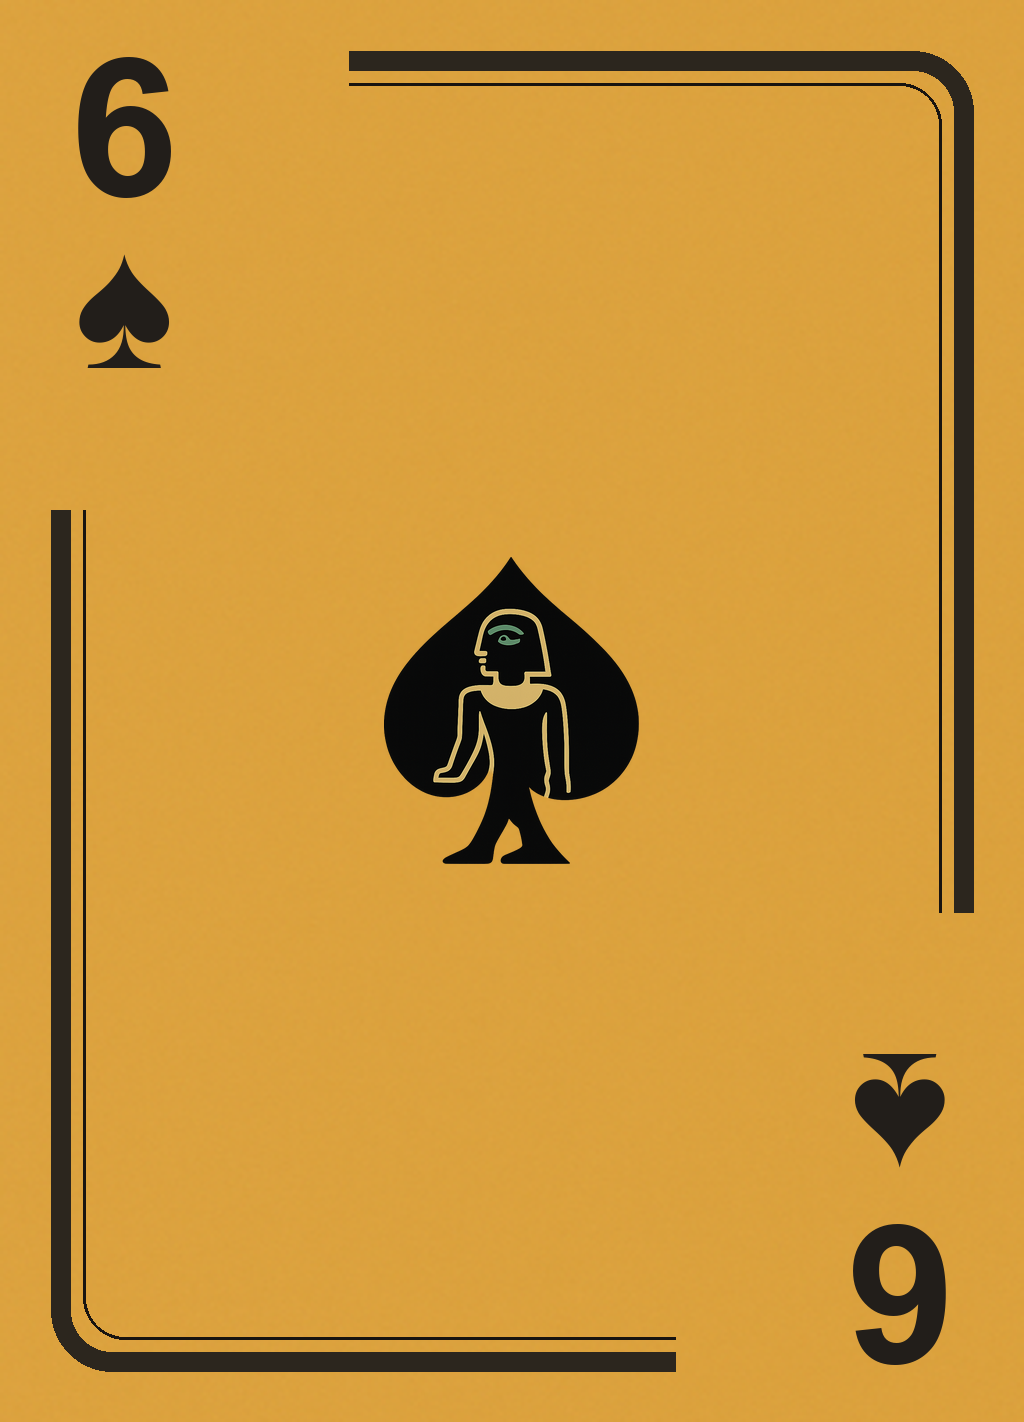
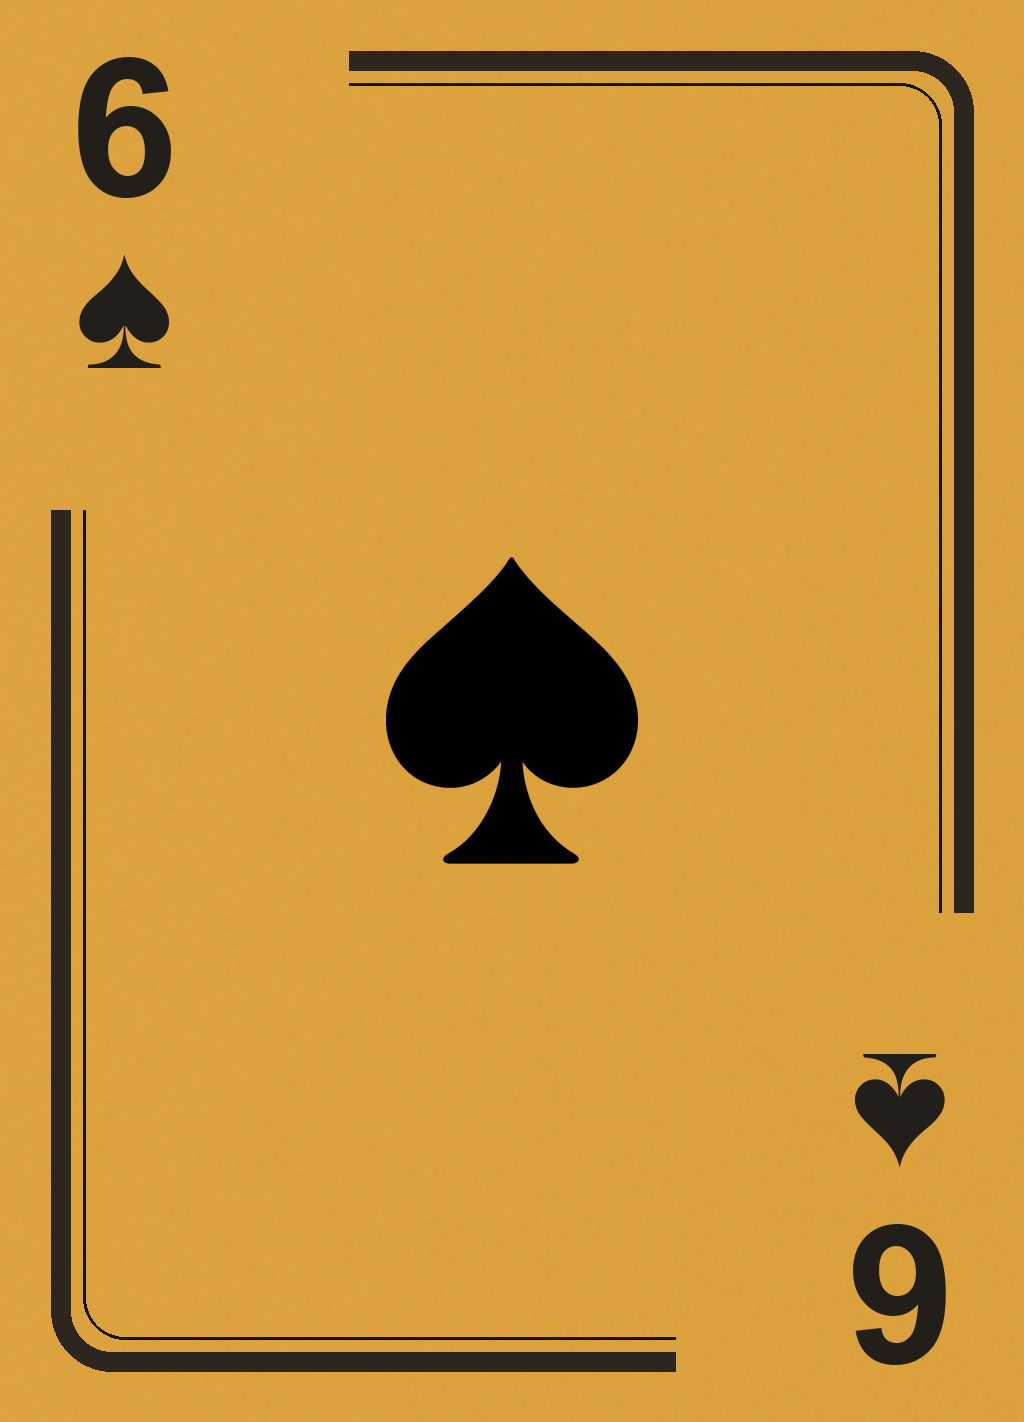
Flutter: add gyotaku card deck + recompress egyptian/greek art
- New gyotaku card-face deck and matching card back.
- Recompress the egyptian/greek backs and egyptian spade faces to shrink asset
  size; regen tooling updates (gen_components/composite).
- Store/appearance wiring for the new deck.

Changed region(s): [[0.375, 0.4023, 0.625, 0.6188]]

diff --git a/app_flutter/lib/state/store_provider.dart b/app_flutter/lib/state/store_provider.dart
@@ -169,6 +169,12 @@ const List<StoreProduct> storeProducts = [
       cosmeticId: 'back-egyptian',
       name: 'Egyptian',
       priceLabel: _cosmeticPrice),
+  StoreProduct(
+      id: 'back_gyotaku',
+      kind: CosmeticKind.cardBack,
+      cosmeticId: 'back-gyotaku',
+      name: 'Gyotaku',
+      priceLabel: _cosmeticPrice),
   // Chip styles.
   StoreProduct(
       id: 'chips_monochrome',
@@ -207,6 +213,12 @@ const List<StoreProduct> storeProducts = [
       cosmeticId: 'deck-egyptian',
       name: 'Egyptian',
       priceLabel: _deckPrice),
+  StoreProduct(
+      id: 'deck_gyotaku',
+      kind: CosmeticKind.deck,
+      cosmeticId: 'deck-gyotaku',
+      name: 'Gyotaku',
+      priceLabel: _deckPrice),
   // Theme sets — a premium deck paired with its matching card back, discounted
   // against buying both separately. Owning a bundle unlocks each granted product.
   StoreProduct(
@@ -237,6 +249,13 @@ const List<StoreProduct> storeProducts = [
       name: 'Egyptian Set',
       priceLabel: _bundlePrice,
       grants: ['deck_egyptian', 'back_egyptian']),
+  StoreProduct(
+      id: 'bundle_gyotaku',
+      kind: CosmeticKind.bundle,
+      cosmeticId: 'deck-gyotaku',
+      name: 'Gyotaku Set',
+      priceLabel: _bundlePrice,
+      grants: ['deck_gyotaku', 'back_gyotaku']),
 ];
 
 /// The headline lifetime product.

diff --git a/app_flutter/lib/ui/theme/appearance.dart b/app_flutter/lib/ui/theme/appearance.dart
@@ -346,6 +346,13 @@ const CardBack cardBackEgyptian = CardBack(
   pattern: CardBackPattern.solid,
   asset: 'assets/card_backs/egyptian_back.png',
 );
+const CardBack cardBackGyotaku = CardBack(
+  id: 'back-gyotaku',
+  name: 'Gyotaku',
+  color: Color(0xFFE8DEC5),
+  pattern: CardBackPattern.solid,
+  asset: 'assets/card_backs/gyotaku_back.png',
+);
 
 const List<CardBack> cardBackPresets = [
   cardBackRoyalBlue,
@@ -361,6 +368,7 @@ const List<CardBack> cardBackPresets = [
   cardBackUkiyoe,
   cardBackGreek,
   cardBackEgyptian,
+  cardBackGyotaku,
 ];
 
 const String kFreeCardBackId = 'back-royal-blue';
@@ -416,6 +424,11 @@ const CardDeck cardDeckEgyptian = CardDeck(
   name: 'Egyptian',
   faceDir: 'assets/card_faces/egyptian',
 );
+const CardDeck cardDeckGyotaku = CardDeck(
+  id: 'deck-gyotaku',
+  name: 'Gyotaku',
+  faceDir: 'assets/card_faces/gyotaku',
+);
 
 const List<CardDeck> cardDeckPresets = [
   cardDeckClassic,
@@ -423,6 +436,7 @@ const List<CardDeck> cardDeckPresets = [
   cardDeckUkiyoe,
   cardDeckGreek,
   cardDeckEgyptian,
+  cardDeckGyotaku,
 ];
 
 const String kFreeCardDeckId = 'deck-classic';

diff --git a/app_flutter/lib/ui/screens/shop_page.dart b/app_flutter/lib/ui/screens/shop_page.dart
@@ -1258,6 +1258,7 @@ const Map<String, (String, String)> _bundleSignature = {
   'bundle_ukiyoe': ('K', '♠'),
   'bundle_greek': ('Q', '♦'),
   'bundle_egyptian': ('K', '♠'),
+  'bundle_gyotaku': ('K', '♥'),
 };
 
 CardBack _bundleBack(StoreProduct bundle) {

diff --git a/tools/card_gen/gen_components.py b/tools/card_gen/gen_components.py
@@ -61,6 +61,15 @@ ROMAN_STYLE = (
     "cream, deep red, olive, slate-blue and black, flat and decorative with a "
     "weathered antique look, no smooth shading, no photorealism."
 )
+GYOTAKU_STYLE = (
+    "authentic Japanese gyotaku fish-print style: a direct hand-printed impression "
+    "(rubbing) of a real fish in dark sumi ink, with SUBTLE muted natural watercolor "
+    "coloring softly washed over the print — gentle olive, ochre, russet-red and pale "
+    "blue tints on the body, belly, fins and spots — keeping fine visible scales, fins "
+    "and gills and organic ink mottling and gaps from hand-printing. A delicate "
+    "hand-pressed printed look, flat and graphic, muted and understated (not vivid or "
+    "glossy), no 3D shading, no photorealism."
+)
 EGYPTIAN_STYLE = (
     "a bold minimal ancient Egyptian hieroglyph ICON style: the figure reduced to a "
     "few large simple flat shapes with clean crisp vector edges and a strong black "
@@ -318,12 +327,13 @@ DECKS = {
             "clubs": "an owl (the owl of Athena) standing and facing forward",
         },
         "back": (
-            "A symmetric ornamental playing-card BACK in ancient Greek vase style: a "
-            "full-bleed design with a bold Greek key (meander) border framing a "
-            "central round palmette/anthemion rosette medallion, in terracotta-orange "
-            "and glossy black (red-figure and black-figure aesthetic). Symmetric and "
-            "geometric, filling the entire card, portrait orientation. NO text, NO "
-            "numbers, NO letters, NO playing-card pips, NO people."
+            "A playing-card BACK in ancient Greek vase style: a SINGLE CENTERED round "
+            "medallion — a palmette/anthemion rosette framed by a thin circular "
+            "Greek-key (meander) ring — in terracotta-orange on a plain glossy black "
+            "ground. Flat and decorative, no shading. The medallion sits in the middle "
+            "with a GENEROUS plain black margin all around it and empty black ground "
+            "extending to every edge. Portrait orientation. NO rectangular border frame "
+            "at the card edges, NO text, NO numbers, NO letters, NO pips, NO people."
         ),
         "courts": {
             ("spades", "K"): "the god Zeus enthroned, holding a thunderbolt, with an eagle beside him",
@@ -354,6 +364,10 @@ DECKS = {
             "absolutely no texture, no pattern, no gradient, no figures, no border, "
             "no text. Portrait orientation."
         ),
+        "emblem_style": (
+            "a bold flat solid graphic silhouette style: a clean crisp solid shape, "
+            "high contrast, completely flat, no shading and no interior detail."
+        ),
         "emblem_fill": (
             "a single solid flat {color} silhouette with clean crisp edges, no "
             "shading and no interior texture"
@@ -371,12 +385,14 @@ DECKS = {
             "clubs": "golden pharaoh funerary mask in a striped nemes headdress",
         },
         "back": (
-            "A symmetric ornamental playing-card BACK in bold flat Egyptian hieroglyph "
-            "style: solid black hieroglyphic motifs and a black border frieze framing a "
-            "central winged-scarab-and-sun-disk medallion, all flat solid black on a "
-            "warm golden-ochre amber ground, high contrast, no shading, no texture. "
-            "Symmetric, filling the entire card, portrait orientation. NO extra colors, "
-            "NO text, NO numbers, NO letters, NO pips."
+            "A playing-card BACK in bold flat Egyptian hieroglyph style: a SINGLE "
+            "CENTERED medallion of a winged scarab beetle holding a sun disk, enclosed "
+            "in a thin circular band, in solid black on a plain warm golden-ochre amber "
+            "ground. High contrast, flat, no shading, no texture. The medallion sits in "
+            "the middle with a GENEROUS plain ochre margin all around it and empty "
+            "ochre ground extending to every edge. Portrait orientation. NO border "
+            "frame at the card edges, NO extra colors, NO text, NO numbers, NO letters, "
+            "NO pips."
         ),
         "courts": {
             ("spades", "K"): "the god Osiris as a wrapped mummy with green skin, wearing the tall white Atef crown with two feathers, holding the crook and flail across his chest",
@@ -391,6 +407,69 @@ DECKS = {
             ("clubs", "K"): "the falcon-headed god Horus wearing the tall Double Crown of Upper and Lower Egypt, holding a was-scepter",
             ("clubs", "Q"): "the goddess Ma'at, a woman with a single tall ostrich feather on her head, arms outstretched showing feathered wings",
             ("clubs", "J"): "the ibis-headed god Thoth holding a scribe's palette and a reed pen",
+        },
+    },
+    "gyotaku": {
+        "style": GYOTAKU_STYLE,
+        "suits": {
+            "hearts": ("heart", "vermilion red"),
+            "diamonds": ("diamond lozenge", "vermilion red"),
+            "spades": ("spade", "black"),
+            "clubs": ("trefoil club (clover)", "black"),
+        },
+        "frame": (
+            "A blank sheet of aged cream Japanese washi paper: a soft off-white cream "
+            "handmade paper with subtle fibers and a faint mottled texture, evenly lit. "
+            "Completely EMPTY: no fish, no ink, no figures, no symbols, no border, no "
+            "text — just the plain washi surface filling the whole image. Portrait "
+            "orientation."
+        ),
+        "emblem_style": (
+            "a bold Japanese hand-pressed ink seal-stamp (hanko) style: a solid inky "
+            "stamped shape with slightly rough, uneven hand-stamped edges and faint "
+            "ink texture, flat and graphic, no photorealism."
+        ),
+        "emblem_fill": (
+            "a single {color} shape hand-pressed like a hand-carved ink seal stamp — "
+            "a completely FILLED SOLID inky stamped impression (NOT hollow, NOT just "
+            "an outline) with slightly rough, uneven hand-stamped edges and faint ink "
+            "texture, with NO separate dark outline and NO drop shadow"
+        ),
+        "iso_note": (
+            "Render ONLY the fish's own inked silhouette shape — no rectangular panel, "
+            "box, paper sheet or background field of any kind behind or around it, on a "
+            "fully transparent background."
+        ),
+        # Aces are the prized invertebrate catches (also classic gyotaku subjects).
+        "ace_objects": {
+            "spades": "a large octopus (tako) with curling tentacles",
+            "hearts": "a large sweet prawn / shrimp (ebi) curved head to tail",
+            "diamonds": "a crab (kani) seen from above with claws spread",
+            "clubs": "a squid (ika) with trailing tentacles",
+        },
+        "back": (
+            "A symmetric ornamental playing-card BACK in Japanese gyotaku sumi-ink "
+            "style: a single centered black-ink fish-print medallion of a curled koi "
+            "carp within a thin ink ring, with one small vermilion-red seal (hanko) "
+            "stamp, on aged cream washi paper. Clean and uncluttered with generous "
+            "negative space. The design fills the FULL WIDTH edge to edge; keep the "
+            "motif within the central area and leave only plain washi along the very "
+            "TOP and very BOTTOM edges (this margin will be trimmed). Symmetric, "
+            "portrait orientation. NO text, NO numbers, NO letters, NO pips."
+        ),
+        "courts": {
+            ("hearts", "K"): "a large ornamental koi carp curving in a graceful S-shape as if swimming upward",
+            ("hearts", "Q"): "a yamame cherry trout with crimson and indigo spots along its side, angled steeply head-up in a near-vertical orientation",
+            ("hearts", "J"): "a slender ayu sweetfish angled diagonally",
+            ("spades", "K"): "a large sea bass (suzuki) angled diagonally head-up",
+            ("spades", "Q"): "a long Japanese eel (unagi) curving in an S-shape vertically",
+            ("spades", "J"): "a mackerel (saba) angled diagonally",
+            ("diamonds", "K"): "a red sea bream (tai) angled diagonally head-up, a large auspicious fish",
+            ("diamonds", "Q"): "a yellowtail (buri) angled diagonally",
+            ("diamonds", "J"): "a flatfish flounder (hirame) seen from above, with mottled sandy-brown and grey markings and both eyes on top",
+            ("clubs", "K"): "a powerful bluefin tuna (maguro) angled diagonally head-up",
+            ("clubs", "Q"): "a slender Pacific saury (sanma) angled diagonally",
+            ("clubs", "J"): "a pufferfish (fugu) un-puffed in a natural side profile, angled steeply head-up in a near-vertical orientation",
         },
     },
     "roman": {
@@ -453,13 +532,18 @@ def emblem_prompt(deck, suit):
     d = DECKS[deck]
     emblem, color = d["suits"][suit]
     fill = d["emblem_fill"].format(color=color)
+    # A deck whose figure style depicts a subject (e.g. gyotaku fish) needs a
+    # separate plain style for the bare suit symbol, or the subject leaks in.
+    style = d.get("emblem_style", eff_style(deck, suit))
     clean = (" It is a clean solid even silhouette with a smooth fill and NO interior "
              "lines, stems, flourishes or patterns, perfectly upright with the two "
              "rounded lobes at the TOP and the single point at the BOTTOM."
              if deck == "greek" else "")
     return (
-        f"A single playing-card suit symbol: one {emblem}, in {eff_style(deck, suit)} "
-        f"It is {fill}, symmetric and upright with clean edges.{clean} Just the bare "
+        f"A single playing-card suit symbol: one {emblem}, in {style} "
+        f"It is {fill}, symmetric and upright with clean edges.{clean} It is ONLY the "
+        f"plain {emblem} outline shape — NO fish, NO animal, NO creature, NO figure, "
+        f"NO person, NO hieroglyph and nothing else inside or around it. Just the bare "
         f"symbol shape ALONE on a 100% transparent background. Absolutely NO "
         f"rectangular panel, NO frame, NO box, NO washi paper, NO paper texture, "
         f"NO textured backdrop of any kind behind or around the symbol, no card, "

diff --git a/tools/card_gen/composite.py b/tools/card_gen/composite.py
@@ -45,6 +45,19 @@ DECK_STYLES = {
         "court_fit": (0.64, 0.58),   # (×W, ×H) — a touch smaller than default
         "ace_fit": (0.42, 0.40),     # themed object centerpiece
     },
+    "gyotaku": {
+        "border": ((70, 64, 58), (40, 36, 32)),  # soft sumi-ink keyline on washi
+        "red": (176, 52, 42),   # vermilion (seal-ink) index for red suits
+        "black": (44, 40, 36),  # sumi near-black index
+        "court_fit": (0.76, 0.66),  # fish run large across the card
+        "court_fit_overrides": {    # bulkier fish shrunk so they don't overfill
+            "spades_J": (0.64, 0.56),
+            "diamonds_J": (0.62, 0.58),
+            "hearts_Q": (0.66, 0.60),
+            "clubs_J": (0.66, 0.575),
+        },
+        "ace_fit": (0.50, 0.44),
+    },
     "egyptian": {
         "border": ((44, 38, 30), (24, 20, 16)),  # near-black lines on ochre
         "red": (150, 52, 38),   # deep terracotta index for red suits
@@ -276,10 +289,14 @@ def build(deck, suit, do_clean):
         elif rank in PIP_RANKS:
             paste_center(card, big_pip, *center)
         else:
-            fig = Image.open(os.path.join(COMP, f"court_{suit}_{rank}.png")).convert("RGBA")
+            court_path = os.path.join(COMP, f"court_{suit}_{rank}.png")
+            if not os.path.exists(court_path):
+                continue  # skip un-generated courts (partial-suit mockups)
+            fig = Image.open(court_path).convert("RGBA")
             if do_clean:
                 fig = clean_halo(fig)
-            paste_center(card, fit(fig, CARD_W * court_fit[0], CARD_H * court_fit[1]), *center)
+            cf = style.get("court_fit_overrides", {}).get(f"{suit}_{rank}", court_fit)
+            paste_center(card, fit(fig, CARD_W * cf[0], CARD_H * cf[1]), *center)
 
         draw_indices(card, suit, rank, stroke=style.get("index_stroke"))
         card.convert("RGB").save(os.path.join(out_dir, f"{suit}_{rank}.png"))
